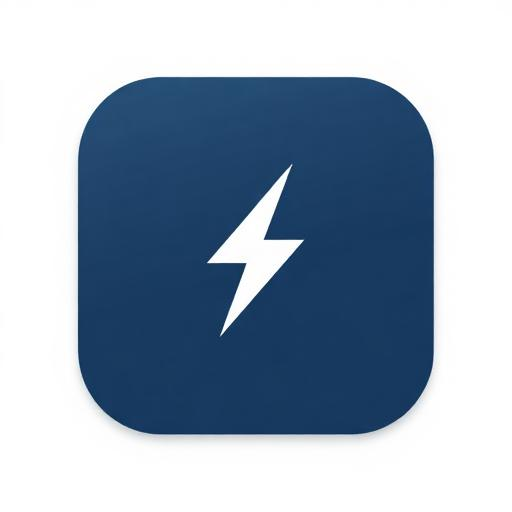
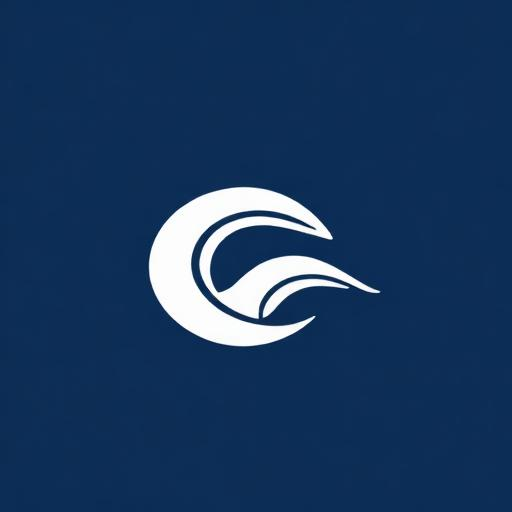
Changes

diff --git a/vite.config.ts b/vite.config.ts
@@ -18,7 +18,7 @@ export default defineConfig(({ mode }) => ({
     mode === "development" && componentTagger(),
     VitePWA({
       registerType: "autoUpdate",
-      includeAssets: ["favicon.ico", "pwa-192x192.png", "pwa-512x512.png"],
+      includeAssets: ["favicon.ico", "pwa-icon.svg", "pwa-icon-maskable.svg", "pwa-192x192.png", "pwa-512x512.png"],
       manifest: {
         name: "Factoría - El Sistema Simple",
         short_name: "Factoría",
@@ -31,6 +31,18 @@ export default defineConfig(({ mode }) => ({
         start_url: "/",
         icons: [
           {
+            src: "pwa-icon.svg",
+            sizes: "any",
+            type: "image/svg+xml",
+            purpose: "any",
+          },
+          {
+            src: "pwa-icon-maskable.svg",
+            sizes: "any",
+            type: "image/svg+xml",
+            purpose: "maskable",
+          },
+          {
             src: "pwa-192x192.png",
             sizes: "192x192",
             type: "image/png",
@@ -39,12 +51,6 @@ export default defineConfig(({ mode }) => ({
             src: "pwa-512x512.png",
             sizes: "512x512",
             type: "image/png",
-          },
-          {
-            src: "pwa-512x512.png",
-            sizes: "512x512",
-            type: "image/png",
-            purpose: "maskable",
           },
         ],
       },

diff --git a/index.html b/index.html
@@ -6,7 +6,7 @@
     <title>Factoría</title>
     <meta name="description" content="El Sistema Simple ⚡">
     <meta name="theme-color" content="#1e293b" />
-    <link rel="apple-touch-icon" href="/pwa-192x192.png" />
+    <link rel="apple-touch-icon" href="/pwa-icon.svg" />
     <meta name="apple-mobile-web-app-capable" content="yes" />
     <meta name="apple-mobile-web-app-status-bar-style" content="black-translucent" />
     <meta name="apple-mobile-web-app-title" content="Factoría" />
